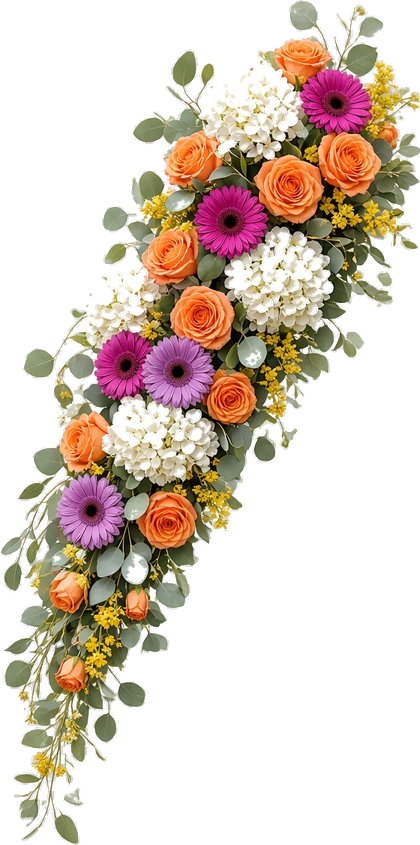
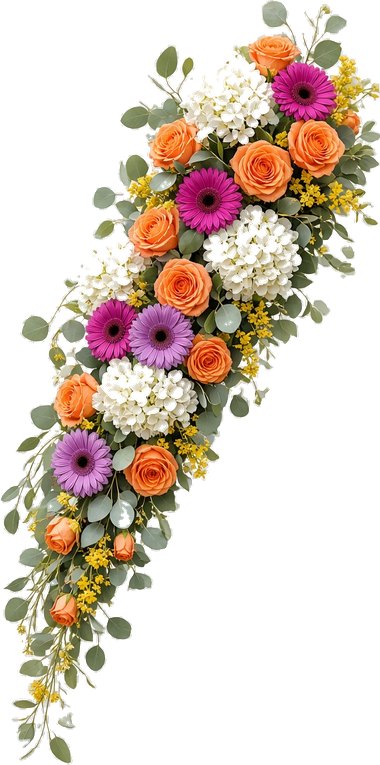
Kendall profile exact flower cascade matching preview

diff --git a/src/app/s/page.tsx b/src/app/s/page.tsx
@@ -672,7 +672,17 @@ export default function ProfilePage() {
       <main className="w-full max-w-[600px] border-x-0 sm:border-x border-border pb-28 sm:pb-0">
         {/* Banner + Avatar — back on gold */}
         <div className="relative">
-          {(profile as any).banner_url ? (
+          {unameLower === "kendall.vip" ? (
+            /* Exact flower banner + cascade composition for @kendall.vip */
+            <div className="relative w-full overflow-hidden h-44 sm:h-52">
+              <img
+                src="/kendall-profile-header.jpg"
+                alt=""
+                className="h-full w-full object-cover object-[center_20%]"
+              />
+              <div className="pointer-events-none absolute inset-0 bg-gradient-to-t from-pearl/40 via-transparent to-black/10" />
+            </div>
+          ) : (profile as any).banner_url ? (
             <div className={`relative w-full overflow-hidden ${
               isBusiness ? "h-40 sm:h-48" : isMusician ? "h-32 sm:h-36" : "h-36 sm:h-44"
             }`}>
@@ -875,13 +885,19 @@ export default function ProfilePage() {
 
         {/* Profile info — business has no avatar overhang, less top padding */}
         <div className={`relative px-4 pb-3 ${isMusician ? (isSamSnuggles ? "pt-3 sm:pt-4" : "pt-12 sm:pt-14") : isBusiness ? "pt-[calc(0.75rem-2mm)]" : "pt-3"}`}>
-          {/* @kendall.vip only: cascading flowers fill empty right side */}
+          {/* @kendall.vip: continuous cascade from banner into empty right side — matches preview */}
           {unameLower === "kendall.vip" && (
             <img
               src="/kendall-cascade.png"
               alt=""
               aria-hidden
-              className="pointer-events-none absolute -right-1 top-0 z-[1] h-[min(52vw,280px)] w-auto max-w-[46%] select-none object-contain object-right-top opacity-95 sm:h-[300px] sm:max-w-[220px]"
+              className="pointer-events-none absolute -right-2 z-[1] select-none object-contain object-right-top"
+              style={{
+                top: "-4.5rem",
+                height: "min(72vw, 340px)",
+                width: "auto",
+                maxWidth: "52%",
+              }}
             />
           )}
           <div className={`relative z-[2] flex gap-2 ${isMusician ? "flex-col items-center text-center" : "items-start justify-between"}`}>
